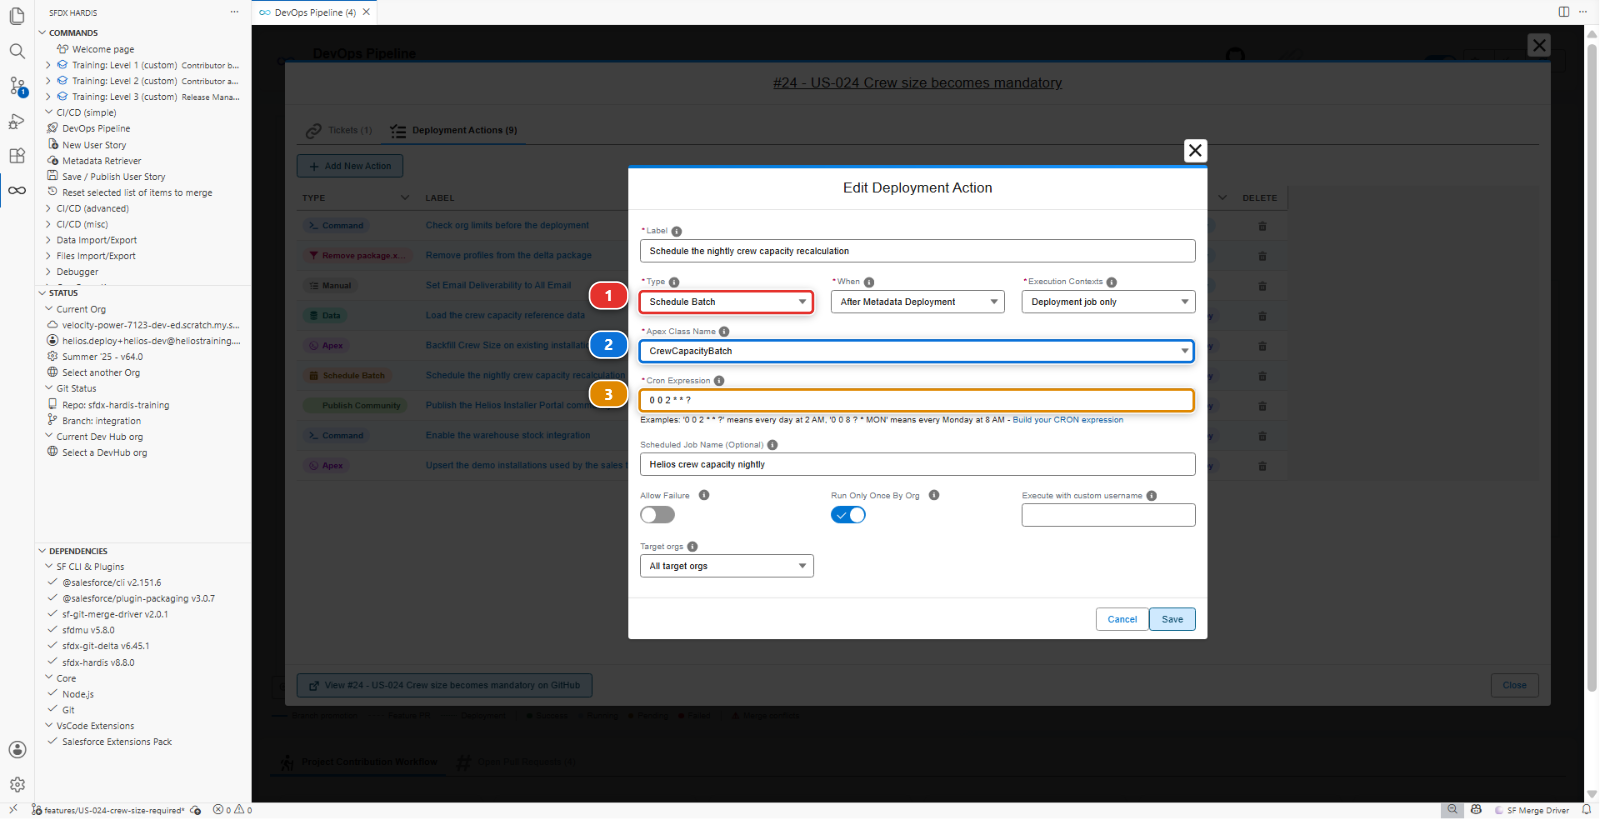
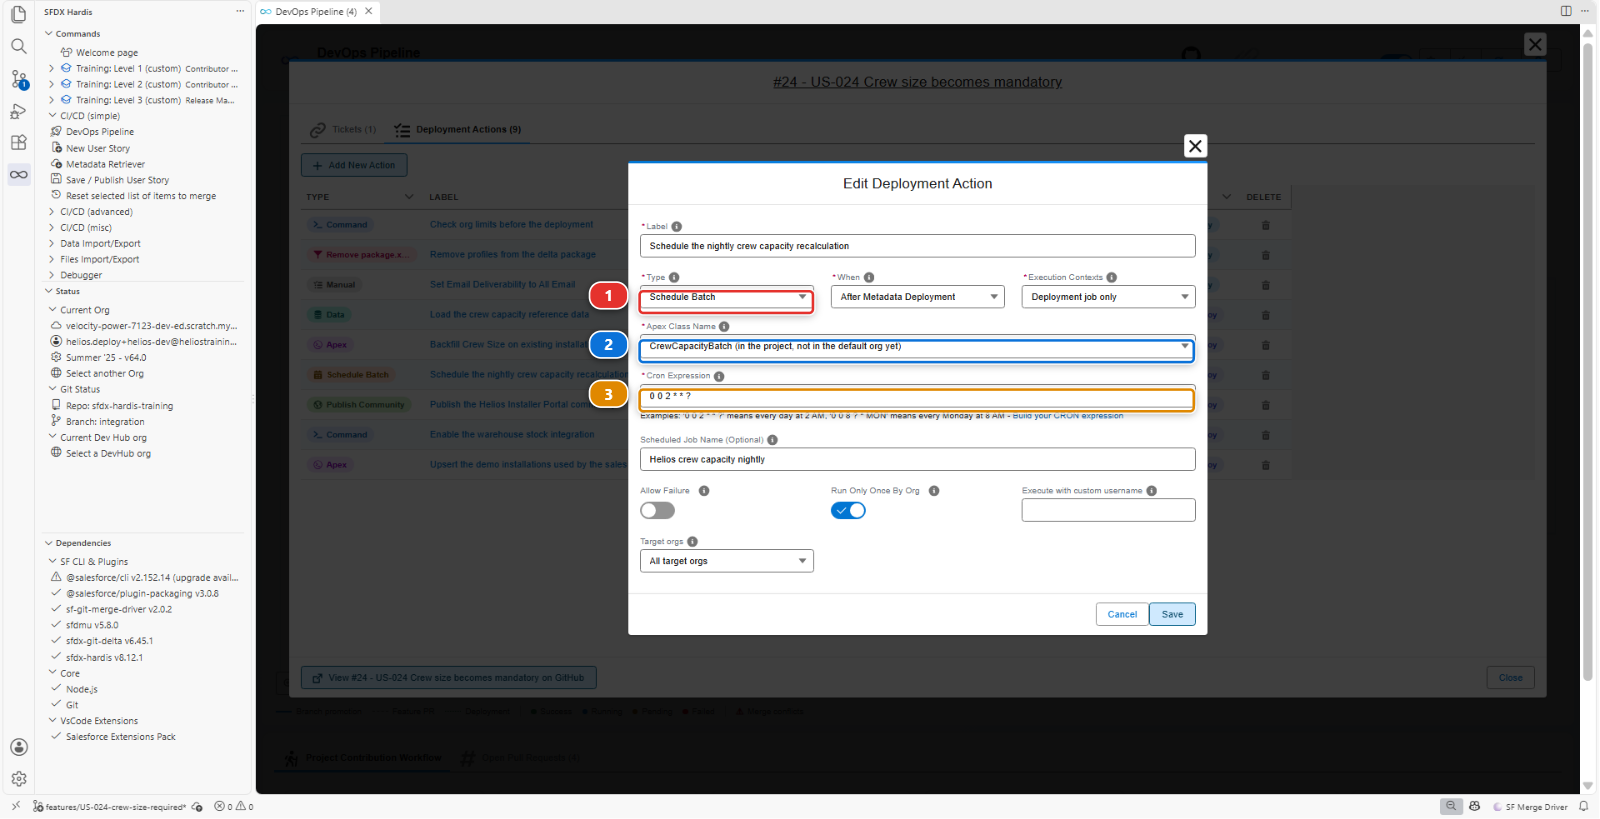
fix(labs): labs 2.4 and 2.5, what a learner found (#68)
* fix(labs): labs 2.4 and 2.5 say where the Apex classes go and how the Apex Tests card picks its org

* fix(labs): French labs 2.4 and 2.5, the Schedule Batch picture and its fixture

The mock helios-dev no longer holds CrewCapacityBatch and the fixture project does, so the picture of Lab 2.4 shows the label a learner gets.

diff --git a/labs/fr/level-2-contributor-advanced/2-4-ship-reference-data-and-a-batch-with-deployment-actions.md b/labs/fr/level-2-contributor-advanced/2-4-ship-reference-data-and-a-batch-with-deployment-actions.md
@@ -5,7 +5,7 @@ description: "Un déploiement vert n'est pas une fonctionnalité qui marche. Liv
 level: 2
 lab: 4
 lang: fr
-source_rev: "65a2f5f1c44fe41fecb7de63d46f0f775333058a"
+source_rev: "81a6262c87486213f6491e6d081ccdd4cda54f65"
 screenshots:
   - annotated/vscode/sidebar-commands-custom-menu-2--lab-records
   - annotated/salesforce/crew-capacity-records
@@ -81,9 +81,12 @@ Dans `helios-dev`, créez :
   applications n'en ont pas l'usage
 - Une classe Apex `CrewCapacityBatch` qui recalcule `Total_Capacity_kW__c` sur les installations
   planifiées et que Salesforce peut lancer selon une planification, plus sa classe de test
-  `CrewCapacityBatchTest`. **Vous n'avez pas à les écrire.** Copiez-les depuis
-  `scripts/apex/samples/` du repository : ce qu'elles calculent importe bien moins ici que le fait que
-  quelqu'un doive les planifier dans chaque org, ce qui est tout l'objet du lab
+  `CrewCapacityBatchTest`. **Vous n'avez pas à les écrire**, et c'est le seul élément de cette liste
+  que vous ne créez pas dans l'org. Depuis `scripts/apex/samples/` du repository, copiez
+  `CrewCapacityBatch.cls`, `CrewCapacityBatchTest.cls` et leurs deux fichiers `.cls-meta.xml` dans
+  `force-app/main/default/classes/`, dans l'Explorer, par copier-coller, comme au [Lab 2.3](2-3-fix-broken-records-with-an-apex-deployment-action.md). Ce qu'elles
+  calculent importe bien moins ici que le fait que quelqu'un doive les planifier dans chaque org, ce
+  qui est tout l'objet du lab
 - Les accès, sur **Helios Delivery Manager** : **Read**, **Create** et **Edit** sur Crew Capacity,
   **Read** et **Edit** sur ses quatre champs, et sous **Tab Settings** sur la même page, **Available**
   et **Visible**. Les planificateurs entretiennent ces nombres, et c'est aussi le permission set que
@@ -126,9 +129,11 @@ dans une org, et c'est le problème que la suite de ce lab résout.
 
 ### 2. Publier et regarder rien échouer
 
-Récupérez l'objet, ses champs, son onglet, l'application `Helios_Delivery`, les deux classes Apex et
-`Helios_Delivery_Manager` avec **Commit changes**, commitez-les, puis **Save / Publish**, poussez,
-Pull Request. Le contrôle est vert. Mergez. Le déploiement est vert.
+Récupérez l'objet, ses champs, son onglet, l'application `Helios_Delivery` et
+`Helios_Delivery_Manager` avec **Commit changes**. Les deux classes Apex ne se récupèrent pas : ce
+sont déjà des fichiers du projet, et Source Control liste les quatre que vous avez copiés à côté de
+ce que vous avez récupéré. Commitez le tout, puis **Save / Publish**, poussez, Pull Request. Le
+contrôle est vert. Mergez. Le déploiement est vert.
 
 Ouvrez maintenant `helios-integration` et regardez :
 
@@ -238,8 +243,14 @@ lesquelles la pipeline déploie.
 | Run Only Once By Org          | oui                                                |
 
 **Schedule Batch** **(1)** remplace le champ de script par deux champs à lui : **Apex Class Name**
-**(2)**, une liste déroulante des classes planifiables du projet, et **Cron Expression** **(3)**, que
-la boîte explique avec des exemples sous le champ.
+**(2)**, une liste déroulante des classes que Salesforce peut lancer selon une planification, lues
+dans votre org par défaut et dans le projet, et **Cron Expression** **(3)**, que la boîte explique
+avec des exemples sous le champ.
+
+Dans votre liste, la classe s'affiche **CrewCapacityBatch (in the project, not in the default org
+yet)**. C'est normal, et c'est bien celle à choisir : la classe est allée du repository à
+`helios-integration` par la pipeline et jamais dans `helios-dev`, où vous n'en aviez pas besoin.
+L'action s'exécute dans les orgs où la pipeline déploie, et la classe y est avant qu'elle ne tourne.
 
 **Trois : celle que personne ne peut automatiser.**
 

diff --git a/labs/en/level-2-contributor-advanced/2-4-ship-reference-data-and-a-batch-with-deployment-actions.md b/labs/en/level-2-contributor-advanced/2-4-ship-reference-data-and-a-batch-with-deployment-actions.md
@@ -80,9 +80,12 @@ In `helios-dev`, create:
   then tick **Helios Delivery** alone: the other apps have no use for it
 - An Apex class `CrewCapacityBatch` that recalculates `Total_Capacity_kW__c` on planned
   installations and that Salesforce can run on a schedule, plus its test class
-  `CrewCapacityBatchTest`. **You do not have to write these.** Copy them from
-  `scripts/apex/samples/` in the repository: what they compute matters far less here than the fact
-  that somebody has to schedule them in every org, which is the whole point of the lab
+  `CrewCapacityBatchTest`. **You do not have to write these**, and they are the one thing in this
+  list you do not create in the org. From `scripts/apex/samples/` in the repository, copy
+  `CrewCapacityBatch.cls`, `CrewCapacityBatchTest.cls` and their two `.cls-meta.xml` files into
+  `force-app/main/default/classes/`, in the Explorer, with copy and paste, as in [Lab 2.3](2-3-fix-broken-records-with-an-apex-deployment-action.md). What they
+  compute matters far less here than the fact that somebody has to schedule them in every org,
+  which is the whole point of the lab
 - The access, on **Helios Delivery Manager**: **Read**, **Create** and **Edit** on Crew Capacity,
   **Read** and **Edit** on its four fields, and under **Tab Settings** on the same page, **Available**
   and **Visible**. Planners maintain these numbers, and it is also the permission set the pipeline's
@@ -123,9 +126,10 @@ is the problem the rest of this lab solves.
 
 ### 2. Publish and watch nothing fail
 
-Retrieve the object, its fields, its tab, the `Helios_Delivery` app, the two Apex classes and
-`Helios_Delivery_Manager` with **Commit changes**, commit them, then **Save / Publish**, push, Pull
-Request. The check is green. Merge. The deployment is green.
+Retrieve the object, its fields, its tab, the `Helios_Delivery` app and `Helios_Delivery_Manager`
+with **Commit changes**. The two Apex classes are not retrieved: they are already files of the
+project, and Source Control lists the four you copied next to what you retrieved. Commit all of it,
+then **Save / Publish**, push, Pull Request. The check is green. Merge. The deployment is green.
 
 Now open `helios-integration` and look:
 
@@ -233,8 +237,14 @@ its path. **Target orgs** **(3)** on **All target orgs** means every org the pip
 | Run Only Once By Org          | yes                                                |
 
 **Schedule Batch** **(1)** replaces the script field with two of its own: **Apex Class Name**
-**(2)**, a dropdown of the schedulable classes in the project, and **Cron Expression** **(3)**,
-which the dialog explains with examples under the field.
+**(2)**, a dropdown of the classes Salesforce can run on a schedule, read from your default org and
+from the project, and **Cron Expression** **(3)**, which the dialog explains with examples under the
+field.
+
+In your list the class reads **CrewCapacityBatch (in the project, not in the default org yet)**.
+That is expected, and it is the right one to pick: the class went from the repository to
+`helios-integration` through the pipeline and never to `helios-dev`, where you did not need it. The
+action runs in the orgs the pipeline deploys to, and the class is there before it runs.
 
 **Three: the one nobody can automate.**
 

diff --git a/labs/fr/level-2-contributor-advanced/2-5-pass-code-quality-and-apex-test-coverage.md b/labs/fr/level-2-contributor-advanced/2-5-pass-code-quality-and-apex-test-coverage.md
@@ -5,7 +5,7 @@ description: "Corrigez une trouvaille PMD et la couverture de code Apex qui bloq
 level: 2
 lab: 5
 lang: fr
-source_rev: "8bc390afe8fb943bdfa3eadd477b54ef38001e7f"
+source_rev: "81a6262c87486213f6491e6d081ccdd4cda54f65"
 screenshots:
   - annotated/vscode/pipeline-cards--new-user-story
   - annotated/vscode/org-monitoring--apex-tests
@@ -220,8 +220,11 @@ Dans l'**Explorer**, clic droit sur `InstallationScheduler.cls`, puis **SFDX: De
 Org**, et faites de même pour `InstallationSchedulerTest.cls`. C'est l'extension Salesforce livrée
 avec le pack d'extensions, et elle envoie ce seul fichier vers votre org par défaut.
 
-Puis, sur la Welcome page, cliquez sur **Org Monitoring**. Dans la section **Apex Tests & Security**
-du panneau qui s'ouvre, cliquez sur la carte **Apex Tests** **(1)** et choisissez `helios-dev`.
+Ouvrez ensuite le panneau **Org Monitoring Workbench**. Deux chemins y mènent, et ils arrivent au
+même endroit : la carte **Org Monitoring** de la Welcome page, ou, dans la barre latérale sfdx-hardis,
+la section **Org Monitoring** et sa première entrée, **Org Monitoring Workbench**. Dans la section
+**Apex Tests & Security** de ce panneau, cliquez sur la carte **Apex Tests** **(1)**. Elle ne demande
+aucune org : elle s'exécute sur votre org par défaut, `helios-dev`.
 
 ![L'Org Monitoring Workbench, avec la carte Apex Tests](../../_assets/annotated/vscode/org-monitoring--apex-tests.png)
 
@@ -232,8 +235,8 @@ dix minutes.
 
 !!! note "La bannière du haut est normale"
     *Org Monitoring Not Present (CI/CD Repo)* veut dire que ce repository est une pipeline de livraison et
-    non un repository de monitoring. Les cartes en dessous fonctionnent quand même sur l'org que vous
-    choisissez. Le Lab 3.8 est là où le monitoring obtient son propre repository.
+    non un repository de monitoring. Les cartes en dessous fonctionnent quand même, sur votre org par
+    défaut. Le Lab 3.8 est là où le monitoring obtient son propre repository.
 
 !!! note "L'onglet Apex Tests est une autre chose"
     Une Pull Request dans le panneau **DevOps Pipeline** peut afficher un onglet

diff --git a/labs/en/level-2-contributor-advanced/2-5-pass-code-quality-and-apex-test-coverage.md b/labs/en/level-2-contributor-advanced/2-5-pass-code-quality-and-apex-test-coverage.md
@@ -216,8 +216,11 @@ in `helios-dev` is still the old version. Send it there first. In the **Explorer
 `InstallationSchedulerTest.cls`. It is the Salesforce extension that comes with the extension pack,
 and it sends that one file to your default org.
 
-Then, on the Welcome page, click **Org Monitoring**. In the **Apex Tests & Security**
-section of the panel that opens, click the **Apex Tests** card **(1)** and pick `helios-dev`.
+Then open the **Org Monitoring Workbench** panel. There are two ways in, and both land in the same
+place: the **Org Monitoring** card of the Welcome page, or, in the sfdx-hardis side bar, the **Org
+Monitoring** section and its first entry, **Org Monitoring Workbench**. In the **Apex Tests &
+Security** section of that panel, click the **Apex Tests** card **(1)**. It asks for no org: it
+runs on your default org, `helios-dev`.
 
 ![The Org Monitoring Workbench, with the Apex Tests card](../../_assets/annotated/vscode/org-monitoring--apex-tests.png)
 
@@ -227,7 +230,7 @@ org queues its test runs, and the first one of the day can take ten.
 
 !!! note "The banner at the top is expected"
     *Org Monitoring Not Present (CI/CD Repo)* means this repository is a delivery pipeline and not a
-    monitoring repository. The cards below it still work against whatever org you pick. Lab 3.8 is
+    monitoring repository. The cards below it still work, against your default org. Lab 3.8 is
     where monitoring gets a repository of its own.
 
 !!! note "The Apex Tests tab is a different thing"

diff --git a/CHANGELOG.md b/CHANGELOG.md
@@ -3,6 +3,11 @@
 What changed in the course, for learners and trainers. The course has no versions: each section is
 a day, newest first, and a change goes under the date of the day it is made.
 
+## 2026-10-02
+
+- Lab 2.4 says where the two Apex classes are copied, and its Schedule Batch action finds `CrewCapacityBatch` in the list: the class is read from the project, and the lab explains the label it carries. It needs version 8.9.2 of the VS Code extension.
+- Lab 2.5 names the two ways to the Org Monitoring Workbench, and says the Apex Tests card runs on the default org instead of asking for one.
+
 ## 2026-09-30
 
 - **The course has a new address: <https://sfdx-hardis-training.github.io/>**, on its way to
